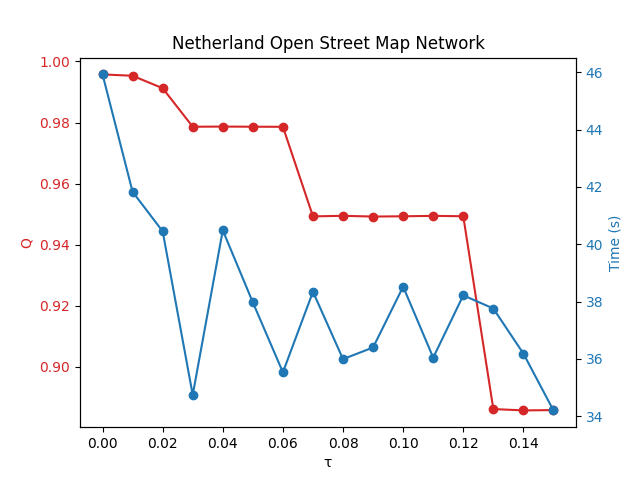
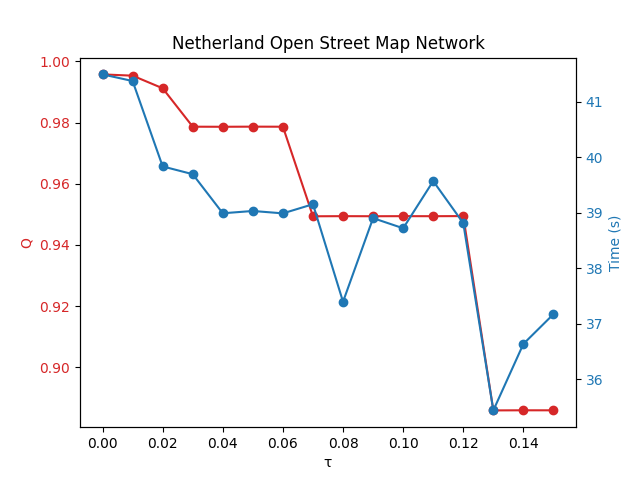
LNE bigger

diff --git a/plottingEFPS.py b/plottingEFPS.py
@@ -2,28 +2,27 @@ import matplotlib.pyplot as plt
 #EARLY FIRST PHASE STOPPING
 #Three seperate graphs for three networks: 200K 400K 1M
 
-q_dict = {(0.0, 2, False): [0.6075632872949482, 0.9628469608462804, 0.9957696468955903], (0.01, 2, False): [0.6097334970688687, 0.9626730365815179, 0.9953136994899365], (0.02, 2, False): [0.6085713617304819, 0.9626780520475379, 0.9912427965387208], (0.03, 2, False): [0.6076389297988322, 0.9625972387802789, 0.978628827499884], (0.04, 2, False): [0.6077433005368443, 0.9626184126119556, 0.9786867646998217], (0.05, 2, False): [0.6076632493079178, 0.9627489873190792, 0.9786400705845472], (0.06, 2, False): [0.6054299942956365, 0.9627402179510796, 0.978605790476074], (0.07, 2, False): [0.5940173284302291, 0.9624526293414205, 0.9492830646285163], (0.08, 2, False): [0.5958648260830798, 0.9626405044204253, 0.949459044604955], (0.09, 2, False): [0.5930995305529632, 0.9625991385192647, 0.9492183704357658], (0.1, 2, False): [0.5893109939617581, 0.9569719107255468, 0.949308557424411], (0.11, 2, False): [0.5939217812994312, 0.9568153234818684, 0.9494460280442634], (0.12, 2, False): [0.5936575979939519, 0.9572458344756292, 0.9493203449284288], (0.13, 2, False): [0.5954053757033668, 0.9557936465161506, 0.8861817986035686], (0.14, 2, False): [0.59122347920032, 0.9567747418306554, 0.8857435459838431], (0.15, 2, False): [0.5902794444481332, 0.956208137404427, 0.8858451173074434]} 
-t_dict = {(0.0, 2, False): [(8.173927068710327, 0.0), (46.78161406517029, 0.0), (45.92499256134033, 0.0)], (0.01, 2, False): [(7.9456400871276855, 0.0), (49.1805899143219, 0.0), (41.826671838760376, 0.0)], (0.02, 2, False): [(5.349376201629639, 0.0), (47.8637216091156, 0.0), (40.44899606704712, 0.0)], (0.03, 2, False): [(7.409040927886963, 0.0), (42.918917179107666, 0.0), (34.740927934646606, 0.0)], (0.04, 2, False): [(7.369369029998779, 0.0), (43.89022493362427, 0.0), (40.4847297668457, 0.0)], (0.05, 2, False): [(6.179036855697632, 0.0), (45.17990279197693, 0.0), (37.969202280044556, 0.0)], (0.06, 2, False): [(7.243160247802734, 0.0), (44.098708152770996, 0.0), (35.5289671421051, 0.0)], (0.07, 2, False): [(5.960384368896484, 0.0), (42.68769454956055, 0.0), (38.341100215911865, 0.0)], (0.08, 2, False): [(6.377218961715698, 0.0), (49.1873459815979, 0.0), (35.98974061012268, 0.0)], (0.09, 2, False): [(8.35620903968811, 0.0), (43.912089347839355, 0.0), (36.396450996398926, 0.0)], (0.1, 2, False): [(5.336548805236816, 0.0), (42.83551239967346, 0.0), (38.518182039260864, 0.0)], (0.11, 2, False): [(6.140404939651489, 0.0), (43.04487133026123, 0.0), (36.04148864746094, 0.0)], (0.12, 2, False): [(5.966858386993408, 0.0), (45.60781145095825, 0.0), (38.21487355232239, 0.0)], (0.13, 2, False): [(6.824272155761719, 0.0), (43.51846432685852, 0.0), (37.755693435668945, 0.0)], (0.14, 2, False): [(5.398127317428589, 0.0), (43.782118797302246, 0.0), (36.18337440490723, 0.0)], (0.15, 2, False): [(6.069591999053955, 0.0), (47.89613723754883, 0.0), (34.20051646232605, 0.0)]}
-network_sizes = [91813, 200169, 425008, 1000005, 2216688, 4026819]
-nLeaves = [19580, 18113, 282735, 0, 129231, 0]
+q_dict = {(0.0, 2, False): [0.6091071239444734, 0.9628471227289355, 0.9957498167002173], (0.01, 2, False): [0.6083925762879929, 0.9626500751179918, 0.9953378280808709], (0.02, 2, False): [0.6071546173146717, 0.9626700725148997, 0.991209764962351], (0.03, 2, False): [0.6076278857330542, 0.9626279738560231, 0.9786520090202868], (0.04, 2, False): [0.6071166248001774, 0.9626110839837022, 0.9786272601017141], (0.05, 2, False): [0.6074803940806444, 0.9626045476742199, 0.9786663864786519], (0.06, 2, False): [0.6070783150179967, 0.962574285897597, 0.9786463920253945], (0.07, 2, False): [0.5927210290888316, 0.962646763952951, 0.9493618402551893], (0.08, 2, False): [0.5927254985739946, 0.9625891751872656, 0.9494021825659791], (0.09, 2, False): [0.5924430705017991, 0.962600413627913, 0.9493786642190004], (0.1, 2, False): [0.5915393731605747, 0.9592468843237437, 0.949401808253357], (0.11, 2, False): [0.5941273004356066, 0.9566559225753533, 0.9493908495266759], (0.12, 2, False): [0.5936657773999963, 0.9564945237929321, 0.9494284428837588], (0.13, 2, False): [0.5930051952540977, 0.9565253640163214, 0.8858965256719165], (0.14, 2, False): [0.5925149749883059, 0.9568926155071911, 0.8859300654875307], (0.15, 2, False): [0.5933719017752151, 0.9568082549383158, 0.8859244116568478]}
+t_dict = {(0.0, 2, False): [(7.509538245201111, 0.0), (45.574069356918336, 0.0), (41.49004874229431, 0.0)], (0.01, 2, False): [(6.726108169555664, 0.0), (45.412719178199765, 0.0), (41.370761847496034, 0.0)], (0.02, 2, False): [(6.7675680875778195, 0.0), (43.75876123905182, 0.0), (39.832493686676024, 0.0)], (0.03, 2, False): [(6.758526492118835, 0.0), (45.49789321422577, 0.0), (39.692575788497926, 0.0)], (0.04, 2, False): [(6.679572415351868, 0.0), (45.61703505516052, 0.0), (38.98873143196106, 0.0)], (0.05, 2, False): [(6.548374843597412, 0.0), (43.3188972234726, 0.0), (39.030092000961304, 0.0)], (0.06, 2, False): [(6.953839659690857, 0.0), (45.383932161331174, 0.0), (38.98700578212738, 0.0)], (0.07, 2, False): [(6.291041684150696, 0.0), (44.18776950836182, 0.0), (39.15166323184967, 0.0)], (0.08, 2, False): [(6.0417317867279055, 0.0), (43.59308626651764, 0.0), (37.39499952793121, 0.0)], (0.09, 2, False): [(6.3113456010818485, 0.0), (45.65772824287414, 0.0), (38.90133440494537, 0.0)], (0.1, 2, False): [(6.290030407905578, 0.0), (44.5692058801651, 0.0), (38.71864264011383, 0.0)], (0.11, 2, False): [(6.490569519996643, 0.0), (44.72642834186554, 0.0), (39.568264389038085, 0.0)], (0.12, 2, False): [(6.311838102340698, 0.0), (44.67659919261932, 0.0), (38.811401796340945, 0.0)], (0.13, 2, False): [(6.234852910041809, 0.0), (44.160431599617006, 0.0), (35.438144016265866, 0.0)], (0.14, 2, False): [(6.31904718875885, 0.0), (43.83470995426178, 0.0), (36.63549902439117, 0.0)], (0.15, 2, False): [(6.2097421169281, 0.0), (44.42503025531769, 0.0), (37.17134525775909, 0.0)]}
+network_sizes = [425008, 1000005, 2216688]#[91813, 200169, 425008, 1000005, 2216688, 4026819]
+nLeaves = [282735, 0, 129231]#[19580, 18113, 282735, 0, 129231, 0]
 τ = [0.0, 0.01, 0.02, 0.03, 0.04, 0.05, 0.06, 0.07, 0.08, 0.09, 0.1, 0.11, 0.12, 0.13, 0.14, 0.15]
 
 for ix, network in enumerate(['Twitter Retweet Subgraph', 'Webbase-2008', 'Netherland Open Street Map Network']):
-	if nLeaves[ix] > 0:
-		fig, ax1 = plt.subplots()
-		color = 'tab:red'
-		ax1.set_xlabel('τ')
-		ax1.set_ylabel('Q', color=color)
-		ax1.plot(τ, [val[ix] for val in q_dict.values()], color=color)
-		ax1.scatter(τ, [val[ix] for val in q_dict.values()], color=color)
-		ax1.tick_params(axis='y', labelcolor=color)
+	fig, ax1 = plt.subplots()
+	color = 'tab:red'
+	ax1.set_xlabel('τ')
+	ax1.set_ylabel('Q', color=color)
+	ax1.plot(τ, [val[ix] for val in q_dict.values()], color=color)
+	ax1.scatter(τ, [val[ix] for val in q_dict.values()], color=color)
+	ax1.tick_params(axis='y', labelcolor=color)
 
-		ax2 = ax1.twinx()  
-		color = 'tab:blue'
-		ax2.set_ylabel('Time (s)', color=color)  
-		ax2.plot(τ, [val[ix][0] for val in t_dict.values()], color=color)
-		ax2.scatter(τ, [val[ix][0] for val in t_dict.values()], color=color)
-		ax2.tick_params(axis='y', labelcolor=color)
+	ax2 = ax1.twinx()  
+	color = 'tab:blue'
+	ax2.set_ylabel('Time (s)', color=color)  
+	ax2.plot(τ, [val[ix][0] for val in t_dict.values()], color=color)
+	ax2.scatter(τ, [val[ix][0] for val in t_dict.values()], color=color)
+	ax2.tick_params(axis='y', labelcolor=color)
 
-		plt.title(network)#TODO
-		plt.savefig(network + '.png')
+	plt.title(network)
+	plt.savefig(network + '.png')

diff --git a/SNACSproject.py b/SNACSproject.py
@@ -68,8 +68,8 @@ if __name__ == "__main__":
 	# 3 = RAND_COMM
 	# 4 = RAND_NEIGH_COMM (Traag's Improved Method)
 	method_dict = {1: "ALL_COMMS", 2: "ALL_NEIGH_COMMS", 3: "RAND_COMM", 4:"RAND_NEIGH_COMM"}
-	settings_list = [(0.0, 2, False), (0.01, 2, False), (0.02, 2, False), (0.03, 2, False), (0.04, 2, False), (0.05, 2, False), (0.06, 2, False), (0.07, 2, False), (0.08, 2, False), (0.09, 2, False), (0.1, 2, False), (0.11, 2, False), (0.12, 2, False), (0.13, 2, False), (0.14, 2, False), (0.15, 2, False)]
-	networks = [readNetwork("rt-higgs.tsv"), readNetwork("webbase-1M.tsv"), readNetwork("inf-netherlands_osm.tsv", False)]#readNetwork("rec-amazon.tsv", False), readNetwork("soc-academia.tsv"), readNetwork("venturiLevel3.tsv", False)
+	settings_list = [(0.0, 2, False), (0.0, 2, True)]
+	networks = [readNetwork("DIMACS10.tsv")]#readNetwork("rec-amazon.tsv", False), readNetwork("soc-academia.tsv"), readNetwork("rt-higgs.tsv"), readNetwork("webbase-1M.tsv"), readNetwork("inf-netherlands_osm.tsv", False), readNetwork("venturiLevel3.tsv", False)
 	n_settings = len(settings_list)
 	ind = np.arange(len(networks))
 	q_dict = {}
